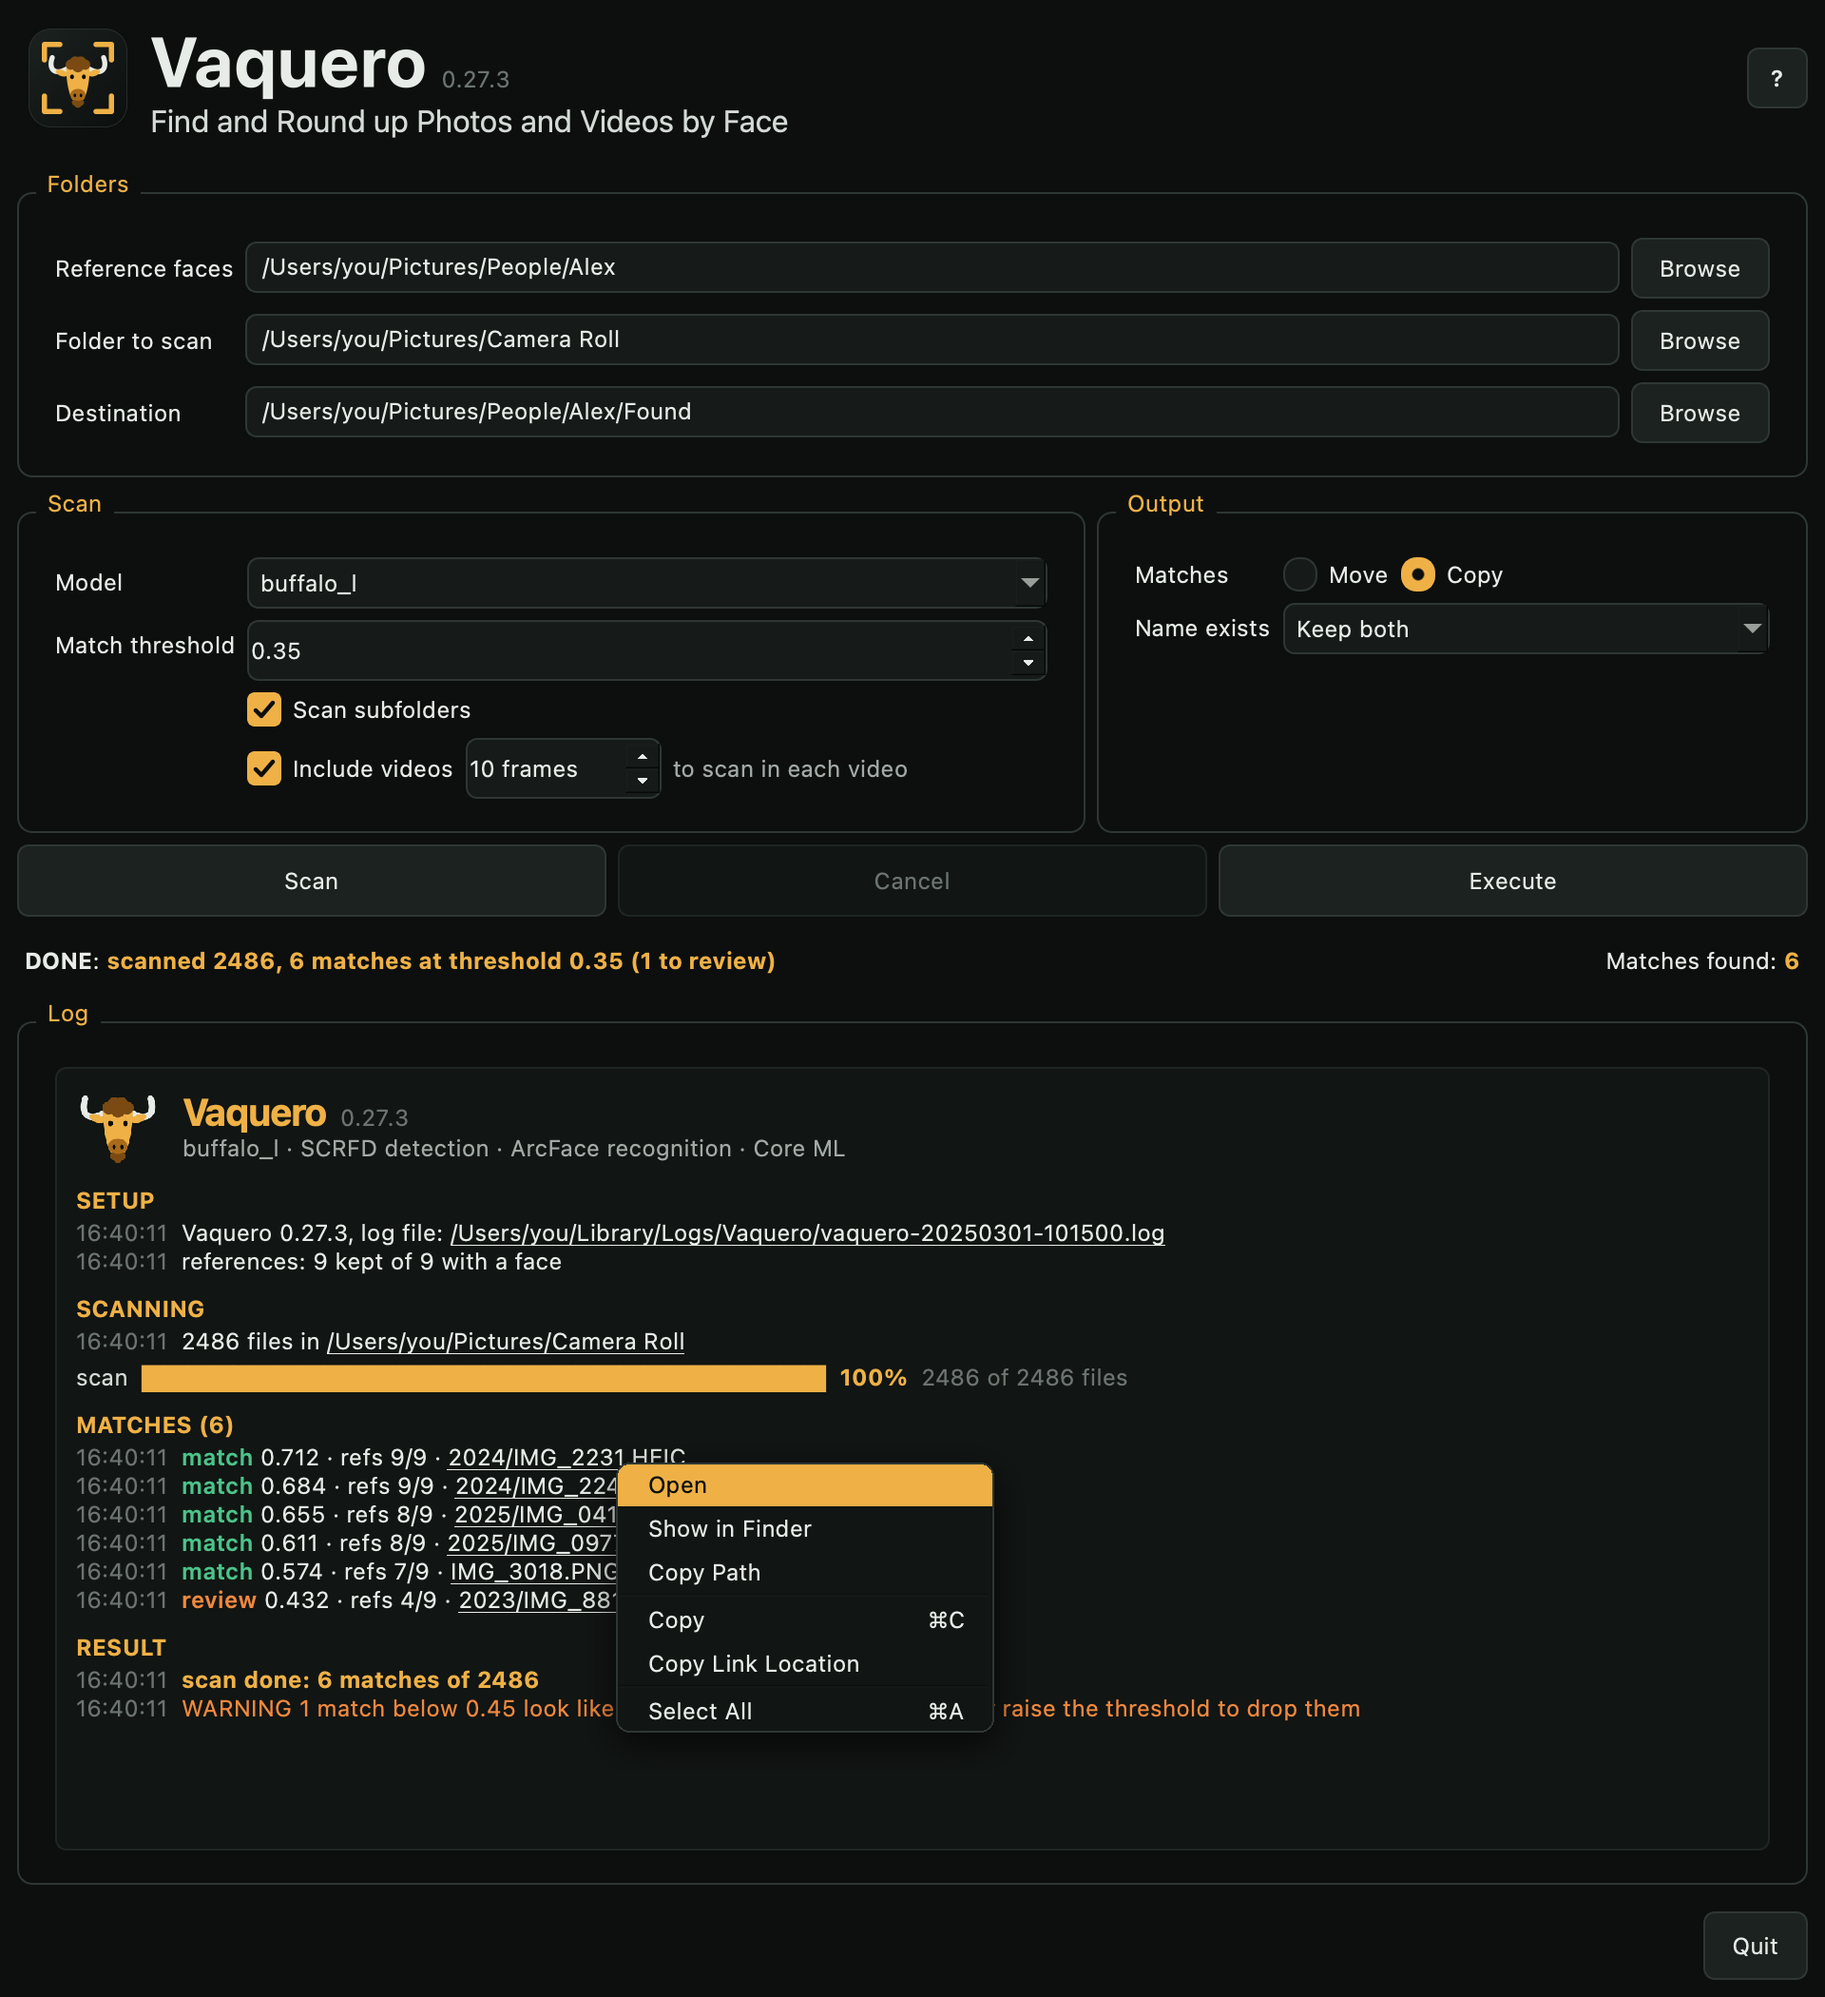
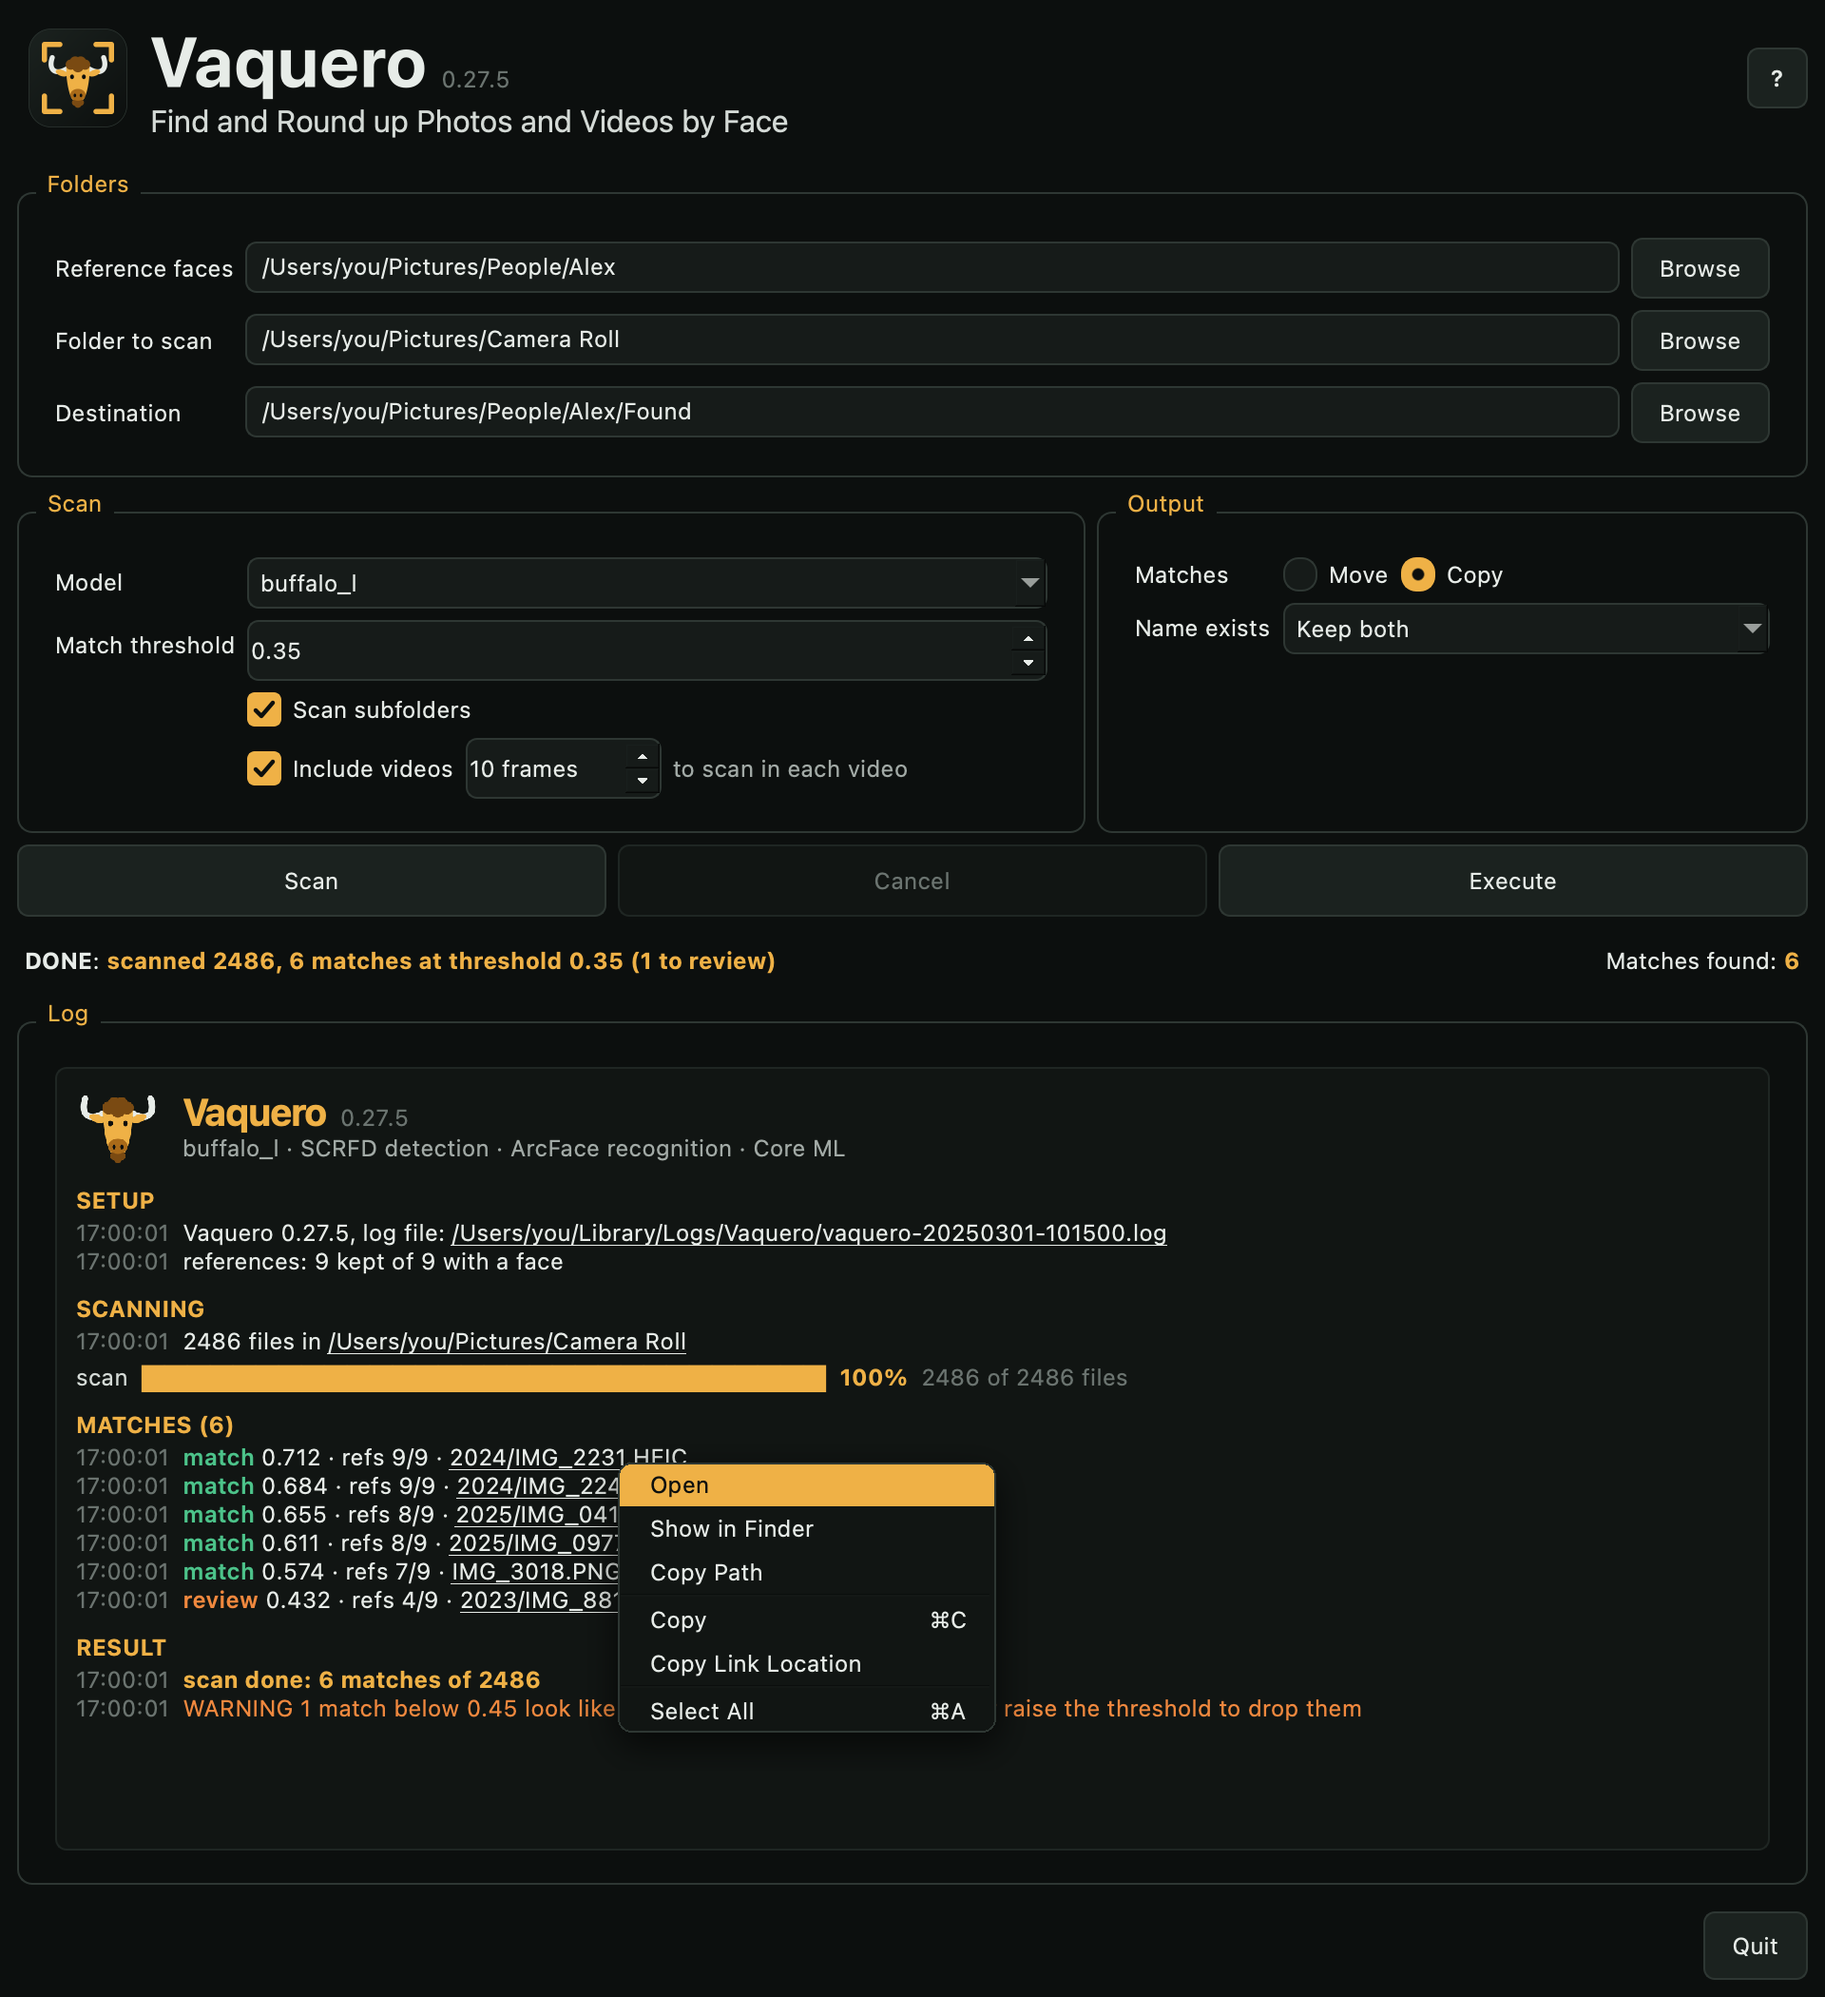
docs: screenshots at 0.27.5, the menu bar menu with its larger bar and short line
The window captures show 0.27.5. The menu bar captures show the larger amber bar with the percentage, the running
job and its count on the left and the time left on the right; the animated menu is saved lossy at quality 90, which
keeps the text sharp at a tenth of the size. The usage doc describes the new layout and the short idle summary.

diff --git a/scripts/menubar_screenshots.py b/scripts/menubar_screenshots.py
@@ -38,6 +38,7 @@ MENU_FRAMES, MENU_FRAME_MS, HOLD_MS, MAX_REOPENS = 26, 260, 1600, 40
 STEP = (TOTAL - START) // (MENU_FRAMES + 6)
 BAR, BACKDROP = (22, 22, 24), (14, 15, 16)  # a dark menu bar, and the app's own background below it
 SCALE = 2  # screencapture saves Retina pixels
+WEBP_QUALITY = 90  # the menu's glass makes lossless frames heavy; text stays sharp at this quality
 ICON_PAD = 12  # room on either side of the icon in its slot, in pixels
 
 
@@ -168,7 +169,7 @@ def main() -> int:
         frames[MENU_FRAMES // 2].save(OUT / "menubar.png", optimize=True)
         frames[0].save(
             OUT / "menubar.webp", save_all=True, append_images=frames[1:],
-            duration=[MENU_FRAME_MS] * (MENU_FRAMES - 1) + [HOLD_MS], loop=0, lossless=True,
+            duration=[MENU_FRAME_MS] * (MENU_FRAMES - 1) + [HOLD_MS], loop=0, quality=WEBP_QUALITY, method=6,
         )
         print(f"wrote {OUT / 'menubar.png'} and {OUT / 'menubar.webp'} ({MENU_FRAMES} frames)", flush=True)
         end(0)

diff --git a/docs/using.md b/docs/using.md
@@ -89,7 +89,7 @@ Vaquero shows in the Dock, in the menu bar, or both; choose in **Settings**. One
 
   ![The menu bar icon during a scan](screenshots/menubar-icon.webp)
 
-- Its menu opens on the running job: an amber progress bar with the percentage, then what is running and the time left, all moving while the menu stays open. Below come **Cancel**, **Open Vaquero**, **Scan**, **Undo**, **Show in Dock**, **Settings…**, **Check for Updates…**, **Open Log**, **Vaquero Help** and **Quit Vaquero**. Idle, the first line is the last result; clicking it opens the window.
+- Its menu opens on the running job: an amber progress bar with the percentage, and under it what is running with its count (`Scanning 1,225 of 2,486`) and the time left (`2 min left`), all moving while the menu stays open. Below come **Cancel**, **Open Vaquero**, **Scan**, **Undo**, **Show in Dock**, **Settings…**, **Check for Updates…**, **Open Log**, **Vaquero Help** and **Quit Vaquero**. Idle, the first line is a short summary of the last result, such as `6 matches in 2,486 files`; clicking it opens the window.
 - Menu bar only: Vaquero has no Dock icon and no menu bar of its own; everything is in the menu bar menu.
 
 ## Menus and shortcuts
